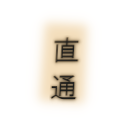
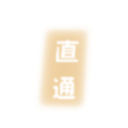
キトC10編成を追加・表示灯の改善

Changed region(s): [[0.3125, 0.2812, 0.625, 0.8438], [0.3438, 0.1562, 0.6875, 0.25]]

diff --git a/README.md b/README.md
@@ -93,7 +93,7 @@ ATSPI　仙ナセ様
 [こちらより`Source Code(zip)`をダウンロードしてください](https://github.com/sankakujirusi12/Bve_Oka_Hiro_SekiTrainpack/releases/tag/1.4.0)
 
 # 次回更新  
-113系京都車追加予定  
+113系京都車追加・これまでに公開した編成のパネルを修正予定  
 
 # 画像提供依頼
 クハ111-0初期車(速度計が別で設置してあるタイプ)の運転台画像をお持ちの方がいらっしゃいましたら是非[画像提供フォーム](https://forms.gle/KWtYn4aNVYG8MhZW8)にてお送りください。
